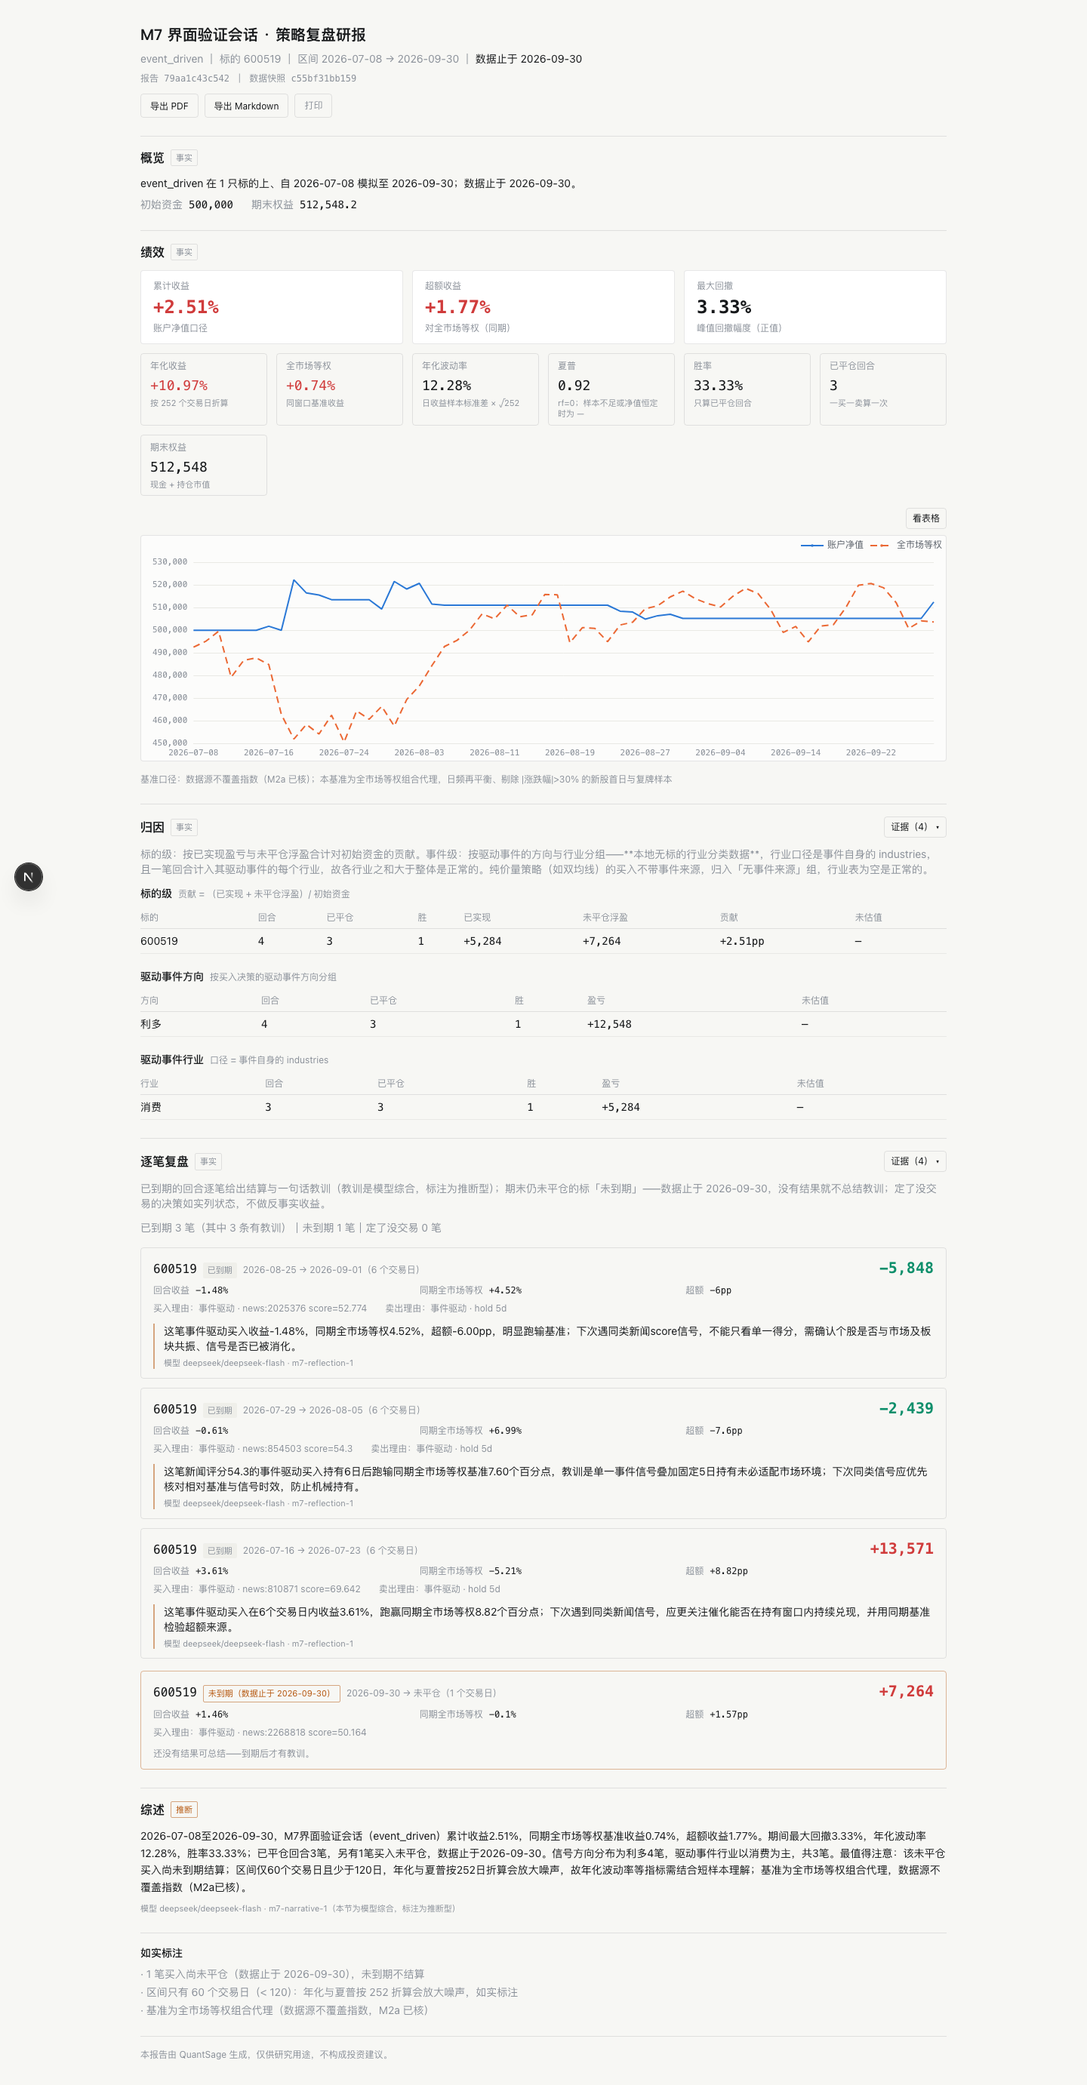
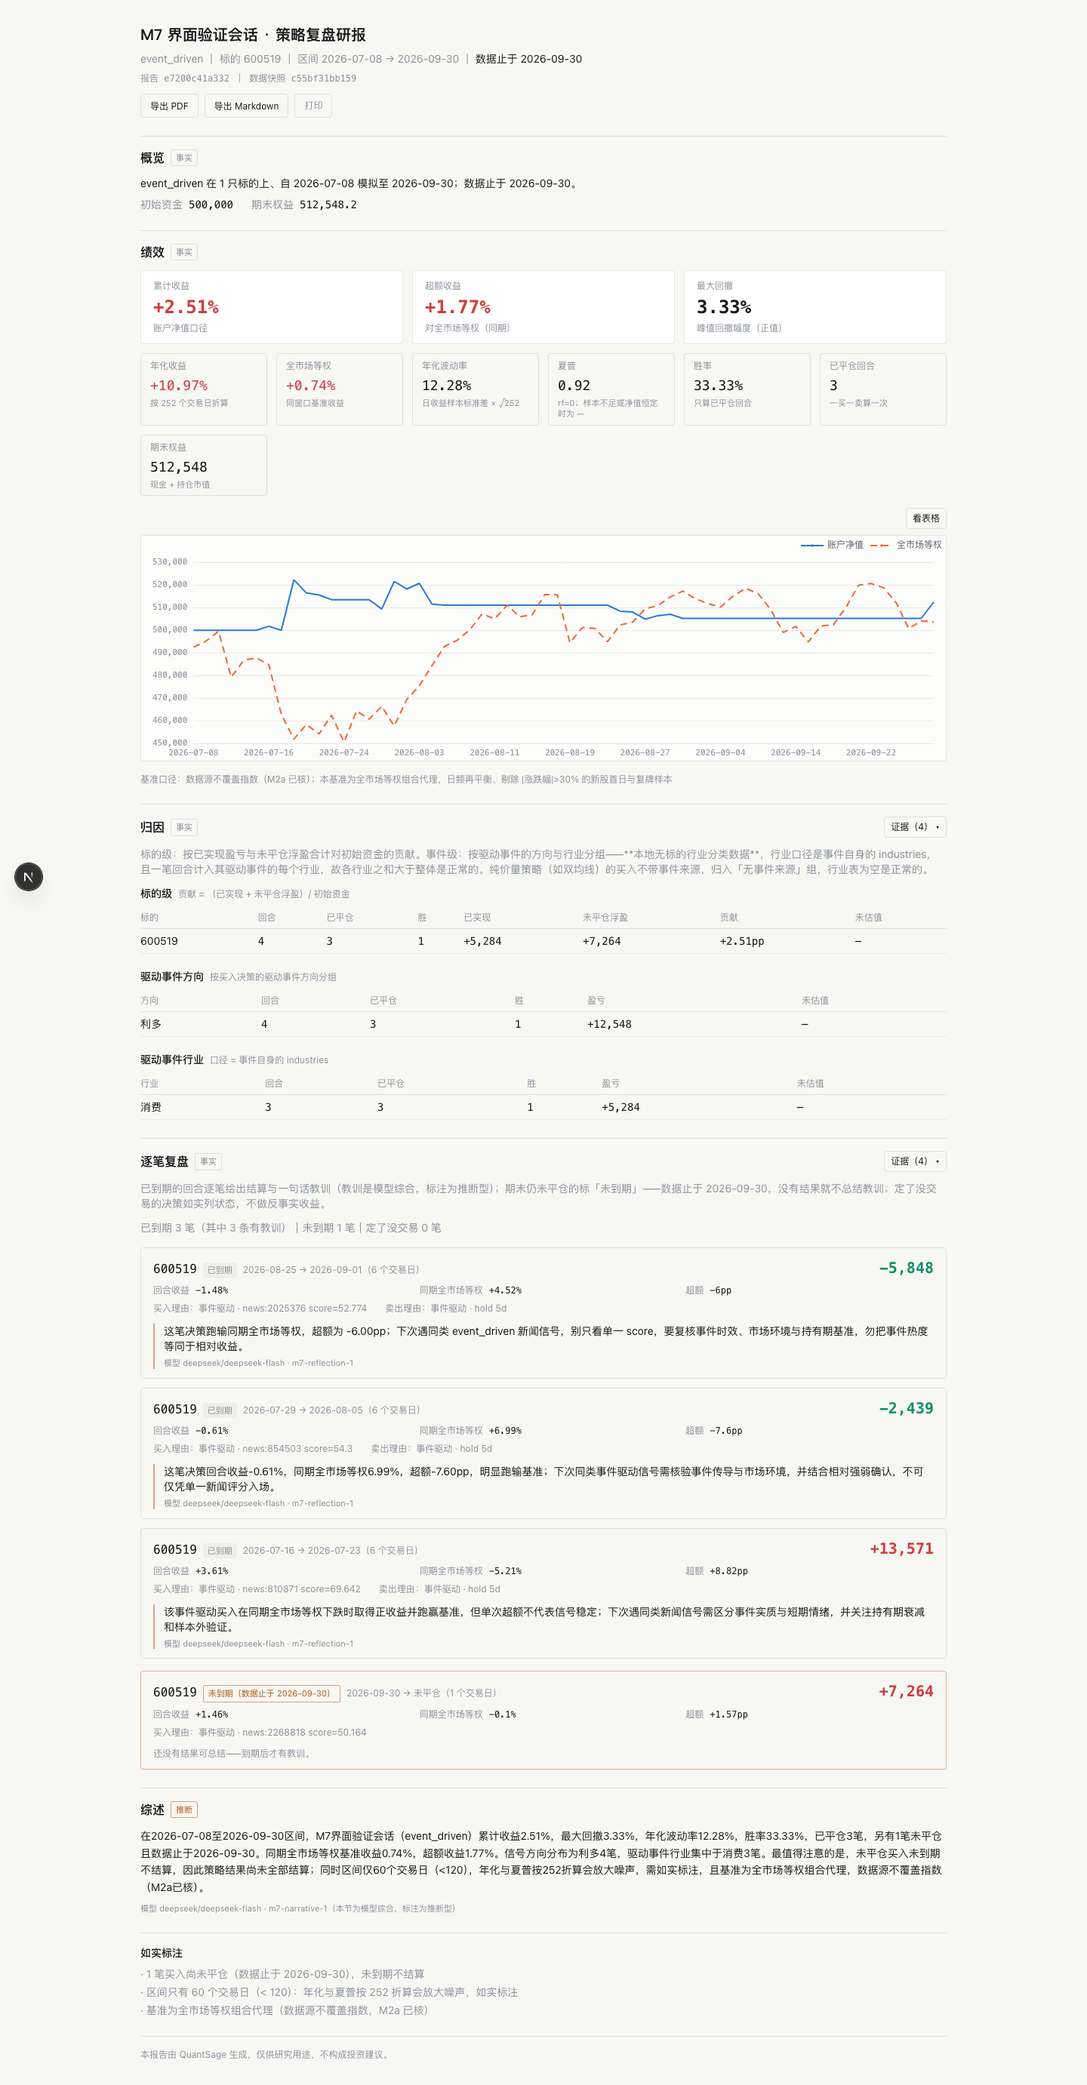
feat(ui): 页头导航当前项指示 —— 品牌色 + aria-current + 判据抽成纯函数
用户反馈：切换模块后分不清自己在哪（顶栏七项长得一样）。

**视觉**：当前项 = 品牌色文字 + 品牌浅底（12%）+ 中等字重，与中性的 hover 面（`bg-muted`）
明确区分。品牌色对页面底的对比度实测**浅色 6.46 / 深色 5.31**，都过 AA——红绿留给涨跌、
`--warn` 留给「需要人看一眼」，两个语义色都不借用。带 `aria-current="page"`。

**判据抽成 `lib/nav.ts` 纯函数**（7 条用例）——这里三处容易写错、错了还不报错：
① `/` 必须**精确**匹配（前缀匹配会让每个页面都点亮「对话」）；
② 子路径与末尾斜杠归同一项（`/backtest?run=<id>` 深链进来也要亮）；
③ **研报页 `/research/<id>` 归到「模拟盘」**（它是模拟盘账户的产物、入口也在那儿，
   不这么映射的话从研报页看页头会像「哪儿都没在」），而公开分享页 `/r/...` 与打印页
   `/print/...` **不点亮任何一项**。

顺手把七个手写 `Link` 换成清单驱动（`NAV_ITEMS`）：新增一项只改一处，
「清单与判据不漂移」有元测试守着。

读数：前端 **315** 用例（新增 7）+ typecheck / lint / `pnpm build` 全绿；
界面验证 **23/23**（新增「页头点亮当前项」一条，按 `data-active` 断言**而非颜色**）；
深浅两版截图 `logs/m7/nav-active-{light,dark}.png`。

diff --git a/frontend/components/app-header.tsx b/frontend/components/app-header.tsx
@@ -1,22 +1,27 @@
 "use client";
 
 import Link from "next/link";
-import { useRouter } from "next/navigation";
+import { usePathname, useRouter } from "next/navigation";
 import { useEffect, useState } from "react";
 
 import { useAuth } from "@/components/auth-provider";
 import { ThemeToggle } from "@/components/theme-toggle";
 import { api } from "@/lib/api";
+import { isActive, NAV_ITEMS } from "@/lib/nav";
 import type { DataFreshness } from "@/lib/types";
 
 /**
- * 全站页头：品牌 + 五项导航 + 当前用户 + 主题切换。导航在桌面必须单行（设计规范）。
+ * 全站页头：品牌 + 导航 + 当前用户 + 主题切换。导航在桌面必须单行（设计规范）。
+ *
+ * **当前项要高亮**（用户反馈：切换模块后分不清自己在哪）：品牌色文字 + 品牌浅底 + 中等字重，
+ * 与中性的 hover 面（`bg-muted`）明确区分；判据在 `lib/nav.ts`（纯函数，带用例）。
  *
  * 只在受保护路由组内渲染，所以 `user` 必然非空（守卫已挡在前面）。
  */
 export function AppHeader() {
   const { user, logout } = useAuth();
   const router = useRouter();
+  const pathname = usePathname();
   const freshness = useFreshness();
 
   async function handleLogout() {
@@ -35,48 +40,26 @@ export function AppHeader() {
             加第 5 项「优化」后 390px 下页头会横溢出 140px（第 6 项「因子」沿用同一条自滚策略）（界面验证逮到），
             而挤走的若是品牌或用户区，损失比让导航滚一下大得多 */}
         <nav className="flex min-w-0 items-center gap-1 overflow-x-auto text-sm whitespace-nowrap">
-          <Link
-            href="/"
-            className="rounded-[var(--radius)] px-2.5 py-1 text-muted-foreground hover:bg-muted hover:text-foreground"
-          >
-            对话
-          </Link>
-          <Link
-            href="/backtest"
-            className="rounded-[var(--radius)] px-2.5 py-1 text-muted-foreground hover:bg-muted hover:text-foreground"
-          >
-            回测
-          </Link>
-          <Link
-            href="/strategies"
-            className="rounded-[var(--radius)] px-2.5 py-1 text-muted-foreground hover:bg-muted hover:text-foreground"
-          >
-            策略
-          </Link>
-          <Link
-            href="/optimize"
-            className="rounded-[var(--radius)] px-2.5 py-1 text-muted-foreground hover:bg-muted hover:text-foreground"
-          >
-            优化
-          </Link>
-          <Link
-            href="/factor"
-            className="rounded-[var(--radius)] px-2.5 py-1 text-muted-foreground hover:bg-muted hover:text-foreground"
-          >
-            因子
-          </Link>
-          <Link
-            href="/paper"
-            className="rounded-[var(--radius)] px-2.5 py-1 text-muted-foreground hover:bg-muted hover:text-foreground"
-          >
-            模拟盘
-          </Link>
-          <Link
-            href="/space"
-            className="rounded-[var(--radius)] px-2.5 py-1 text-muted-foreground hover:bg-muted hover:text-foreground"
-          >
-            个人空间
-          </Link>
+          {NAV_ITEMS.map((item) => {
+            const current = isActive(pathname, item.href);
+            return (
+              <Link
+                key={item.key}
+                href={item.href}
+                // `aria-current="page"` 是无障碍里的「你在这儿」；`data-active` 给界面验证用
+                aria-current={current ? "page" : undefined}
+                data-nav={item.key}
+                data-active={current ? "true" : "false"}
+                className={
+                  current
+                    ? "rounded-[var(--radius)] bg-brand/12 px-2.5 py-1 font-medium text-brand"
+                    : "rounded-[var(--radius)] px-2.5 py-1 text-muted-foreground hover:bg-muted hover:text-foreground"
+                }
+              >
+                {item.label}
+              </Link>
+            );
+          })}
         </nav>
 
         <div className="ml-auto flex shrink-0 items-center gap-3">

diff --git a/frontend/lib/nav.ts b/frontend/lib/nav.ts
@@ -1,0 +1,57 @@
+/**
+ * 页头导航的**纯函数**：项目清单与「当前在哪一项」的判据。
+ *
+ * 为什么要单独一层：**「当前项」的判据是容易写错又不容易发现的那类逻辑**——
+ * `/` 用前缀匹配会让所有页面都点亮「对话」；`/backtest` 用相等匹配则带着
+ * `?run=<id>` 深链进来就不亮。抽成纯函数 + 用例钉死，顺便让页头只负责画。
+ */
+
+export interface NavItem {
+  key: string;
+  href: string;
+  label: string;
+}
+
+/** 页头导航（顺序即展示顺序）。新增一项只改这里。 */
+export const NAV_ITEMS: readonly NavItem[] = [
+  { key: "chat", href: "/", label: "对话" },
+  { key: "backtest", href: "/backtest", label: "回测" },
+  { key: "strategies", href: "/strategies", label: "策略" },
+  { key: "optimize", href: "/optimize", label: "优化" },
+  { key: "factor", href: "/factor", label: "因子" },
+  { key: "paper", href: "/paper", label: "模拟盘" },
+  { key: "space", href: "/space", label: "个人空间" },
+] as const;
+
+/**
+ * 不在导航里、但**属于**某一项的路径（点进来时高亮它所属的模块）。
+ *
+ * 研报页 `/research/<id>` 是某个模拟盘账户的产物（入口就在 `/paper`），
+ * 故归到「模拟盘」——否则从研报页看页头，会像「哪儿都没在」。
+ */
+const ALIASES: Record<string, string> = {
+  "/research": "/paper",
+};
+
+/** 路径 → 当前项（没有匹配到就返回 `null`，例如公开分享页不该点亮任何一项）。 */
+export function activeHref(pathname: string | null): string | null {
+  if (!pathname) return null;
+  const path = pathname.replace(/\/+$/, "") || "/";
+  for (const item of NAV_ITEMS) {
+    if (item.href === "/") {
+      // 首页只有**精确**相等才算当前项——前缀匹配会让全站点亮「对话」
+      if (path === "/") return "/";
+      continue;
+    }
+    if (path === item.href || path.startsWith(`${item.href}/`)) return item.href;
+  }
+  for (const [prefix, href] of Object.entries(ALIASES)) {
+    if (path === prefix || path.startsWith(`${prefix}/`)) return href;
+  }
+  return null;
+}
+
+/** 某一项是不是当前项（页头据此加 `aria-current` 与高亮样式）。 */
+export function isActive(pathname: string | null, href: string): boolean {
+  return activeHref(pathname) === href;
+}

diff --git a/frontend/lib/nav.test.ts b/frontend/lib/nav.test.ts
@@ -1,0 +1,53 @@
+/**
+ * 页头「当前项」判据的用例（`lib/nav.ts`）。
+ *
+ * 两条容易写错、且错了不报错的：`/` 的前缀匹配会让全站都点亮「对话」；
+ * 深链（`?run=<id>`）与子路径（`/research/<id>`）要各自落到正确的项。
+ */
+
+import { describe, expect, it } from "vitest";
+
+import { activeHref, isActive, NAV_ITEMS } from "./nav";
+
+describe("activeHref", () => {
+  it("首页只有精确相等才算（前缀匹配会让全站点亮「对话」）", () => {
+    expect(activeHref("/")).toBe("/");
+    expect(activeHref("/backtest")).toBe("/backtest");
+    expect(activeHref("/factor")).toBe("/factor");
+  });
+
+  it("子路径与末尾斜杠都算同一项", () => {
+    expect(activeHref("/backtest/")).toBe("/backtest");
+    expect(activeHref("/strategies/abc")).toBe("/strategies");
+    expect(activeHref("/space/")).toBe("/space");
+  });
+
+  it("前缀相同但不是同一项的不点亮（/backtestX 不是回测）", () => {
+    expect(activeHref("/backtesting")).toBeNull();
+    expect(activeHref("/papers")).toBeNull();
+  });
+
+  it("研报页归到「模拟盘」（它是模拟盘账户的产物，入口也在那儿）", () => {
+    expect(activeHref("/research/225eb8a3-9f56")).toBe("/paper");
+    expect(isActive("/research/225eb8a3-9f56", "/paper")).toBe(true);
+  });
+
+  it("不在导航里的页面（公开分享页 / 打印页）不点亮任何一项", () => {
+    expect(activeHref("/r/some-token")).toBeNull();
+    expect(activeHref("/print/abc")).toBeNull();
+    expect(activeHref(null)).toBeNull();
+  });
+
+  it("清单自身没有重复 href 或 key（新增项时别撞）", () => {
+    const hrefs = NAV_ITEMS.map((item) => item.href);
+    const keys = NAV_ITEMS.map((item) => item.key);
+    expect(new Set(hrefs).size).toBe(hrefs.length);
+    expect(new Set(keys).size).toBe(keys.length);
+  });
+
+  it("每一项都能被自己的 href 点亮（清单与判据不漂移）", () => {
+    for (const item of NAV_ITEMS) {
+      expect(activeHref(item.href)).toBe(item.href);
+    }
+  });
+});

diff --git a/docs/specs/P2-Mn.md b/docs/specs/P2-Mn.md
@@ -2,7 +2,7 @@
 
 > 文档链：规划报告（调研底稿，docs/private/）→ CLAUDE.md（定稿摘要）→ PRD（需求，v0.6 待评审）→ 本文（技术规格）→ 代码
 >
-> 版本 v1.39 ｜ 2026-10-10 ｜ 状态：M1 已落地（M1a / M1b / M1c；**M1c 补「加自选表单的即时反馈」——判重 + 代码体检**）；M2a / M2b 已落地；**M2c 已收口——M2 整段完成（三天台账核验通过，2026-10-09）**；**M3 已落地并验收通过（M3a / M3b / M3c）**；**M4a 已落地（沙箱与用户策略 API）、M4b 已落地（静态检查器与模板库）**；**M4c 已落地并验收（M4c-1 持久化与端点 / M4c-2 前端工作台）——M4 整段完成**；**M5a 规则与地基已落地并验收（A 股规则接引擎 / 横截面 / 名称字典 / 等权基准，界面验证 13/13）**；**M5b 批量 / 网格 / 过拟合检验已落地并验收（后端 5×5 网格 + DSR 交叉验证 / 前端 `/optimize`，界面验证 13/13）**；**M5c 已细化并拍板（开工前，D1–D6 见 §6 M5c v1.25）**；**M5c-1 后端已落地（`app/factor/` + `GET /api/v1/factor/report`，同尺子 30.7 万行零不一致、离线 958 全绿）**；**M5c-2 前端已落地（`/factor` 页，界面验证 12/12）——M5 整段完成**；**M6 已细化并拍板（开工前，D1–D8 见 §7）**；**M6a 后端已落地（`app/paper/` + 7 端点 + 四张表，全批 == 回测逐笔相等）**；**M6b 前端已落地（`/paper` 页，界面验证 18/18）——M6 整段完成**；**M7 已细化并拍板（D1–D4 与 F1–F11 见 §8）；M7a 后端已落地（报告容器 + 八端点 + 快照指纹）**；**M7b 后端已落地（决策记忆 + 到期结算反思 + 三端点 + 独立定时，离线 1113 / 集成 97 全绿，真 Store 跨进程幂等已验）**；**M7c 前端已落地（研报页 + 公开只读 + 证据追溯面板，界面验证 17/17）——M7 整段完成**
+> 版本 v1.40 ｜ 2026-10-10 ｜ 状态：M1 已落地（M1a / M1b / M1c；**M1c 补「加自选表单的即时反馈」——判重 + 代码体检**）；M2a / M2b 已落地；**M2c 已收口——M2 整段完成（三天台账核验通过，2026-10-09）**；**M3 已落地并验收通过（M3a / M3b / M3c）**；**M4a 已落地（沙箱与用户策略 API）、M4b 已落地（静态检查器与模板库）**；**M4c 已落地并验收（M4c-1 持久化与端点 / M4c-2 前端工作台）——M4 整段完成**；**M5a 规则与地基已落地并验收（A 股规则接引擎 / 横截面 / 名称字典 / 等权基准，界面验证 13/13）**；**M5b 批量 / 网格 / 过拟合检验已落地并验收（后端 5×5 网格 + DSR 交叉验证 / 前端 `/optimize`，界面验证 13/13）**；**M5c 已细化并拍板（开工前，D1–D6 见 §6 M5c v1.25）**；**M5c-1 后端已落地（`app/factor/` + `GET /api/v1/factor/report`，同尺子 30.7 万行零不一致、离线 958 全绿）**；**M5c-2 前端已落地（`/factor` 页，界面验证 12/12）——M5 整段完成**；**M6 已细化并拍板（开工前，D1–D8 见 §7）**；**M6a 后端已落地（`app/paper/` + 7 端点 + 四张表，全批 == 回测逐笔相等）**；**M6b 前端已落地（`/paper` 页，界面验证 18/18）——M6 整段完成**；**M7 已细化并拍板（D1–D4 与 F1–F11 见 §8）；M7a 后端已落地（报告容器 + 八端点 + 快照指纹）**；**M7b 后端已落地（决策记忆 + 到期结算反思 + 三端点 + 独立定时，离线 1113 / 集成 97 全绿，真 Store 跨进程幂等已验）**；**M7c 前端已落地（研报页 + 公开只读 + 证据追溯面板，界面验证 17/17）——M7 整段完成**
 >
 > 本 SPEC 覆盖 PRD §2.2 的 M1–M10。正文章节按功能 ID 排序（§2–§11 对应 M1–M10）。
 > 功能范围依据竞品调研（docs/private/Pn-n/P2-Mn/P2-Mn-竞品调研.md，2026-10-06）：相对 P1 收尾时点新增 15 项功能并新开 M10，均已获确认。
@@ -1025,6 +1025,7 @@ DSR = Φ[ (SR − SR₀)·√(T−1) / √(1 − γ₃·SR + ((γ₄−1)/4)·SR
 
 | 版本 | 日期 | 关联 | 变更 |
 |---|---|---|---|
+| v1.40 | 2026-10-10 | 全局 UI | **页头导航加当前项指示（用户反馈：切换模块后分不清自己在哪）**。① **视觉**：当前项 = **品牌色文字 + 品牌浅底（12% 不透明度）+ 中等字重**，与中性的 hover 面（`bg-muted`）明确区分——品牌色对页面底的对比度浅色 **6.46** / 深色 **5.31**，都过 AA（红绿留给涨跌、`--warn` 留给「需要人看一眼」，都不借用）；② **无障碍**：带 `aria-current="page"`；③ **判据抽成纯函数** `lib/nav.ts`（带 7 条用例）——`/` 只有**精确**相等才算当前项（前缀匹配会让全站点亮「对话」），子路径与末尾斜杠归同一项，**研报页 `/research/<id>` 归到「模拟盘」**（它是模拟盘账户的产物、入口也在那儿），公开分享页与打印页不点亮任何一项；④ 七个手写 `Link` 换成清单驱动（`NAV_ITEMS`，新增一项只改一处）；⑤ 界面验证 **23/23**（新增「页头点亮当前项」一条，按 `data-active` 断言而非颜色） |
 | v1.39 | 2026-10-10 | M7d | **一键导出 PDF（服务端渲染）落地 —— 取代 v1.32「PDF = 前端打印样式」的决定**。用户实测后两条反馈指向同一处：打印对话框不是导出（还得在对话框里选存储位置），而打印版式为了分页安全必须退化成文档流（卡片摊平）。现在：① **`GET /reports/{id}/pdf`**（受保护，越权 404）与 **`GET /public/reports/{token}/pdf`**（匿名）直接回 `application/pdf` 附件——**一键下载真文件，不弹对话框**；② **渲染在子进程**（`app/report/pdf_worker.py`，同沙箱 worker 的思路：浏览器崩了不拖垮 API、超时可控），用**本机已装的 Chrome**（`channel="chrome"`，实测零浏览器下载；无 Chrome 的环境自动回落 Playwright 自带浏览器）；③ 渲染器打开**打印专用页** `frontend/app/print/[id]?t=<一次性令牌>`（与研报页同一份 `ReportView`），令牌 = `HMAC(JWT_SECRET, report_id|exp)`、默认 10 分钟、**不新增密钥也不改分享状态**；④ 前端按钮拆成 **「导出 PDF」（下载）/「导出 Markdown」/「打印」（次要，纸面场景）**，公开页同样三件。⑤ **实施期逮到一处 Python 陷阱**：`f'…UTF-8''{quote(x)}'` 被当成**相邻字面量的隐式拼接**（第二段没有 `f` 前缀 ⇒ 花括号原样输出），响应头实测露馅，已改用双引号书写并留注释。⑥ **读数**：真实导出 200 / `application/pdf` / 500KB / **4.2s**（含 Chrome 冷启动）；界面验证 **22/22**（新增「一键下载到真文件」与「下载名带报告指纹」两条，断言 `%PDF` 头、体积与文件名）；离线 1123 / 集成 97 / 前端全绿。依赖：`playwright==1.63.0`（3 个小包）。⑦ **附件命名（用户反馈：「总不能叫 report 吧，不只有一篇研报」）**：附件名 = **`{账户名}-{报告指纹前 8 位}.{pdf\|md}`**——一个账户会有很多份研报（不同快照各一份），只叫账户名必然重名；**ASCII 兜底同样带指纹**（全中文名过去退化成 `report`，那是句废话，现在兜 `quantsage-<hash>`）。文件名由 `Content-Disposition` 决定（跨源下前端的 `download` 属性会被浏览器忽略，所以这条必须落在服务端） |
 | v1.38 | 2026-10-10 | M7c 修订 | **打印版式定向恢复（用户反馈「绩效那里一行一个数，过于丑陋」）**。上一轮为了分页安全对 flex/grid 一刀切退化成 block，把**原子单元内部**的版式也摊平了。正解：**卡片永不跨页**（`break-inside: avoid`），它内部的栅格天生撞不上页边界 ⇒ 只退化**会跨页的竖排容器**，卡片内部按标记（`data-print-grid` / `data-print-flex`）恢复三列指标 / 头部行 / 理由行。分页不变量仍全绿（20/20） |
 | v1.37 | 2026-10-10 | M7c 修订 | **打印缺陷修复第二轮：打印退化成纯文档流**。用户提供了导出的 PDF 原件——瑕疵确实在**文件里**（不只是预览）：第 1 页末行只剩上半截（印进页脚带），下半截顺到第 2 页页眉之下，是「断点落在一行中间、且这一行不被允许移动」的形态。上一轮只改断点规则不够；本轮加**打印时 flex / grid 一律退化成 block**（`gap` 用相邻兄弟 margin 补回）——纸上是文档流，块级分页只会「整行下移」，与具体研报内容、纸型都无关。**代价如实记**：卡片内的三列指标在纸上摊成一列（可读，不如屏幕精致）；要「既保真又一键出文件」得走服务端 Playwright 渲染（v1.32 的原方案）。另记一条探测结论：**Chrome 打印对话框与 CDP `page.pdf()` 两条路径在分页上不等价**——同一份内容、同一纸型，对话框会切行而 `page.pdf()` 会整行下移（最小实验对照 flex / block / avoid 三种都不切），故「本机复现 → 修 → 复验」对这类问题走不通，验证靠规则不变量 + 用户复打 |
